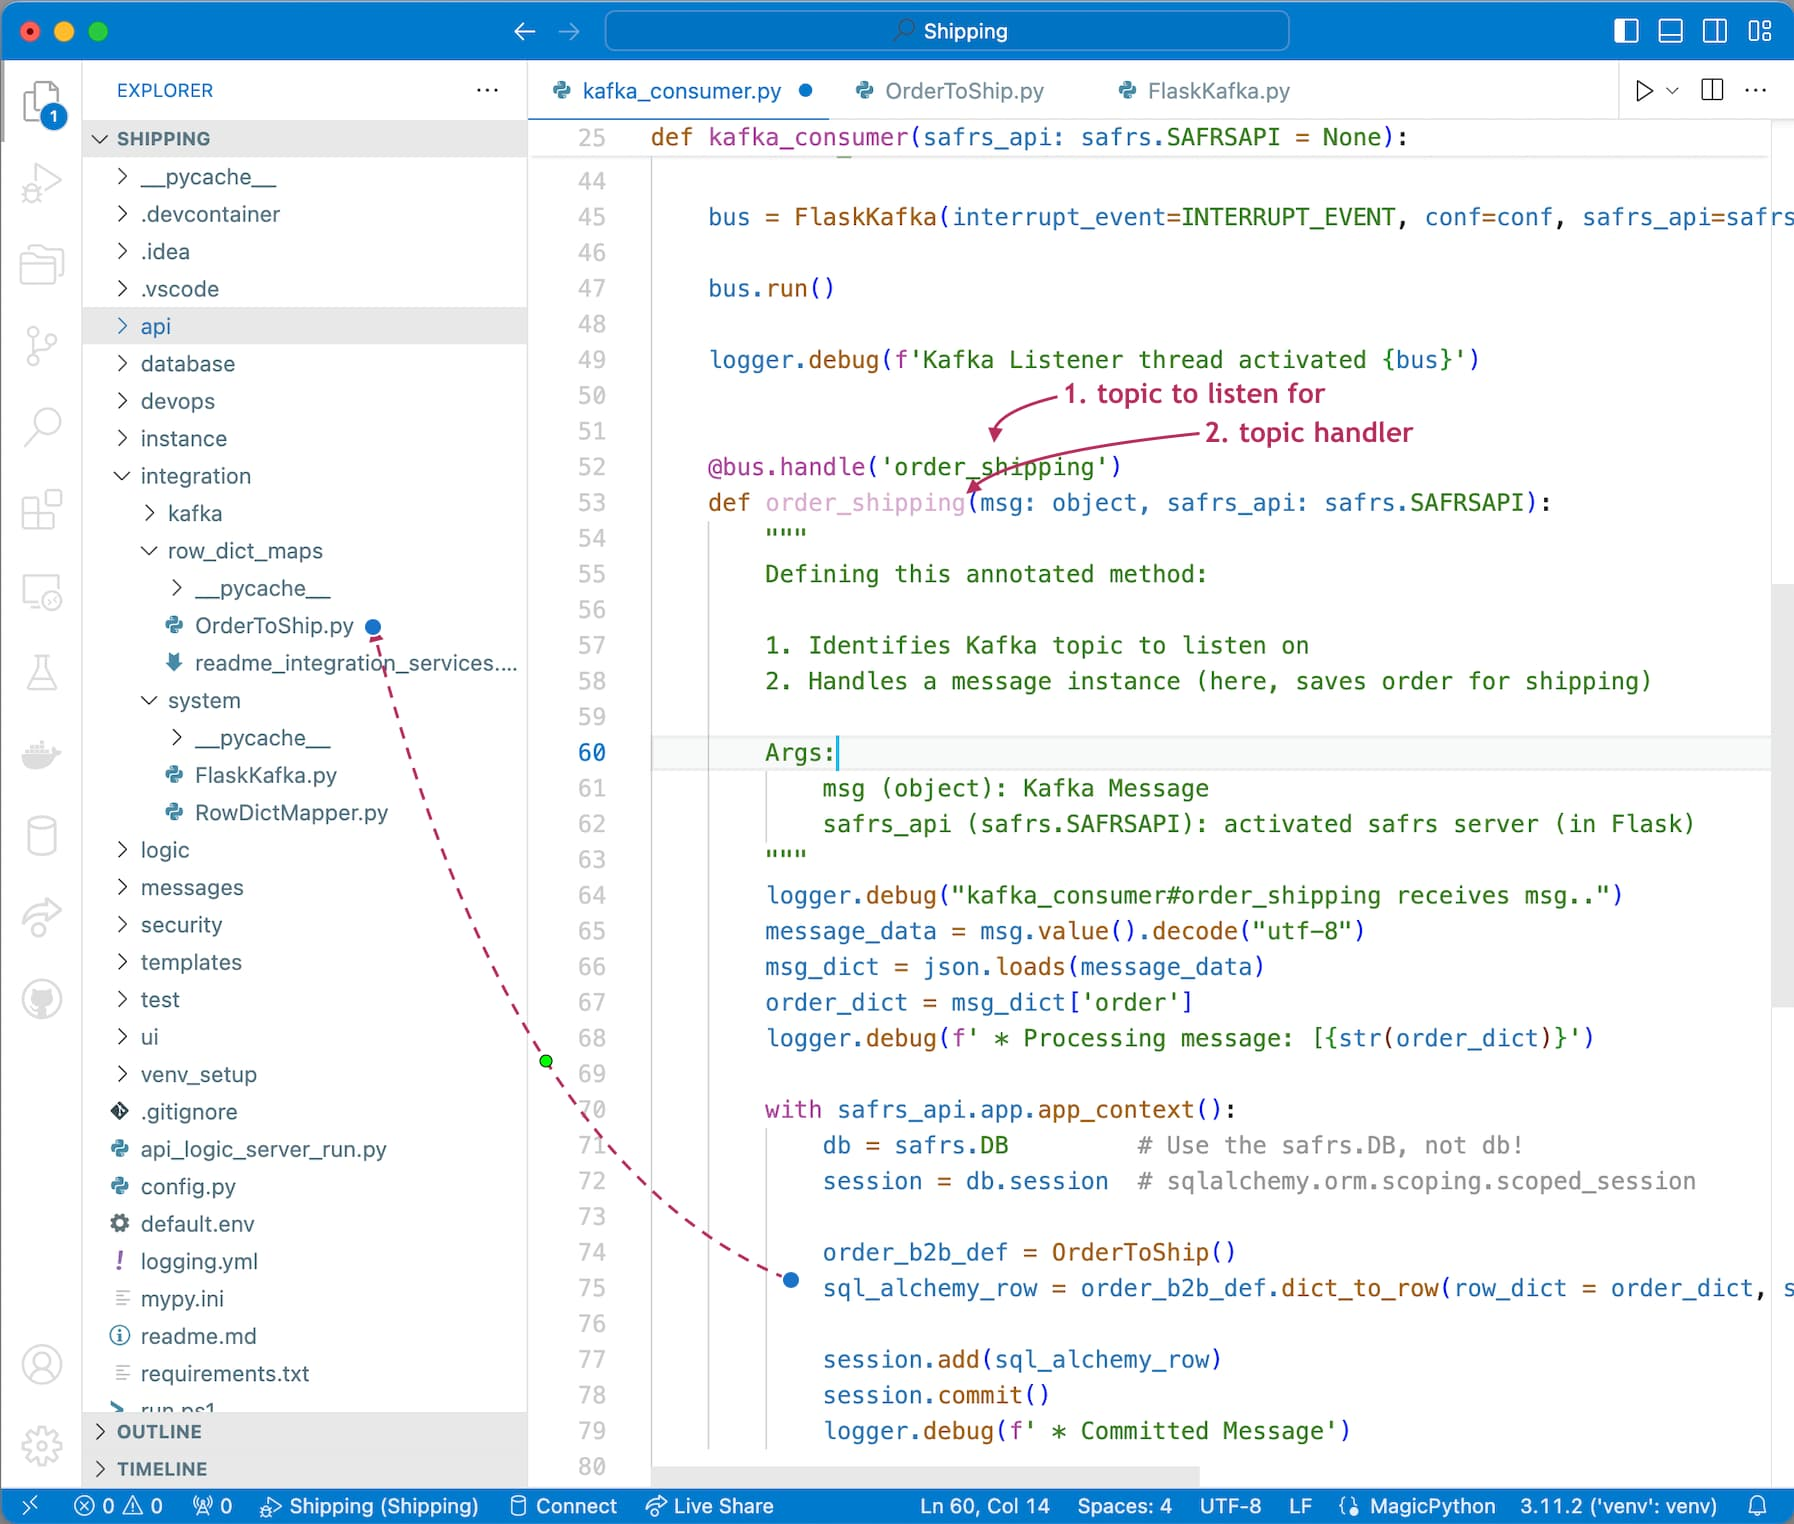
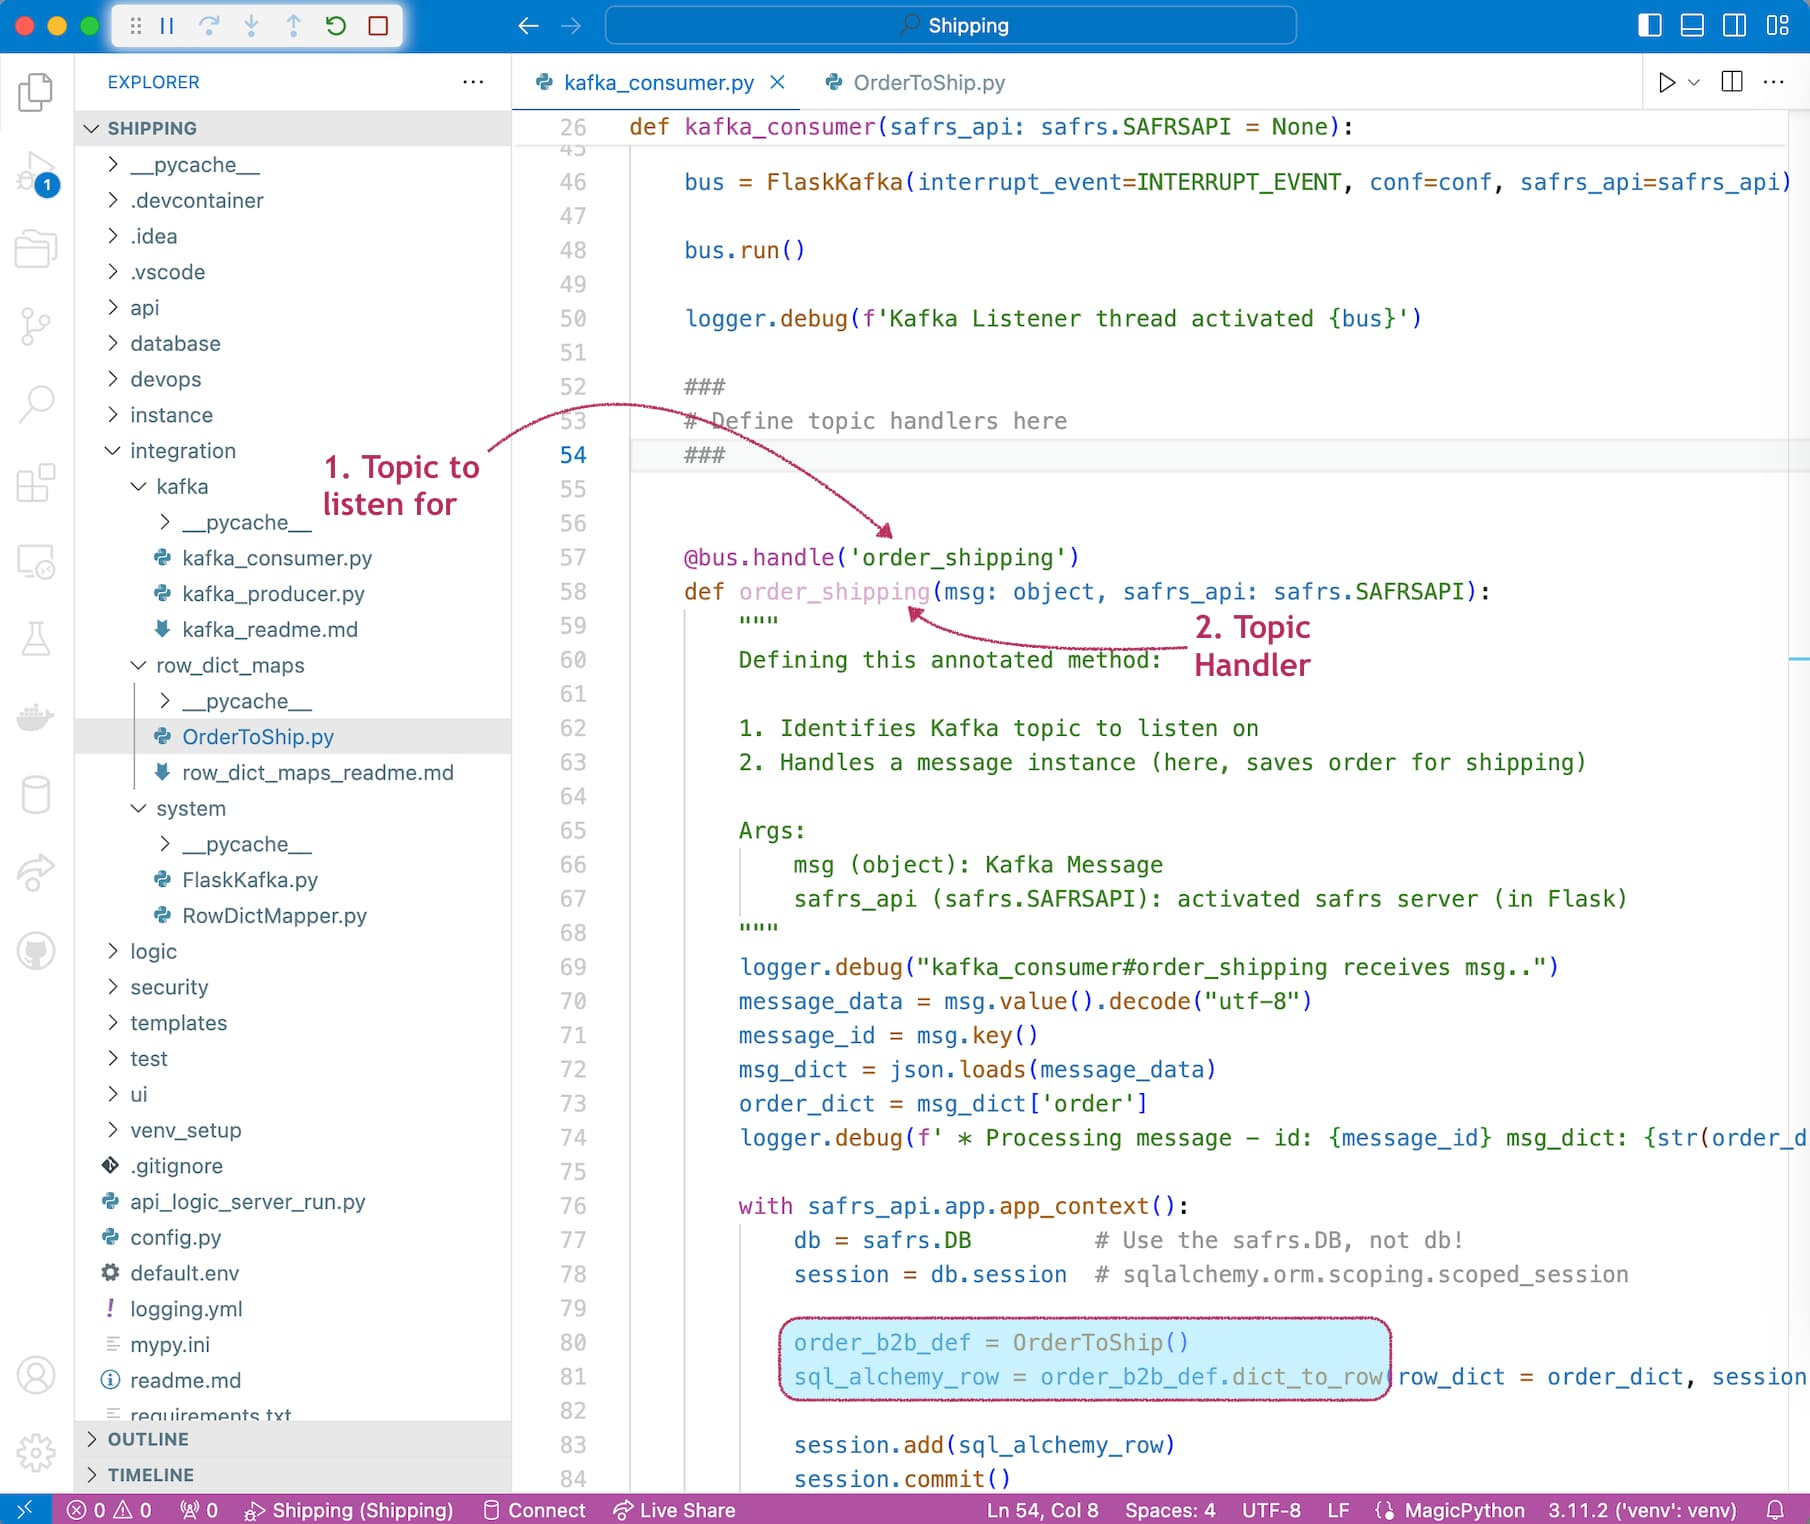
wip

diff --git a/docs/Sample-Integration.md b/docs/Sample-Integration.md
@@ -271,7 +271,10 @@ To see security in action:
 
 ## 3. Integrate: B2B and Shipping
 
-We now have a running system - an API, logic, security, and a UI.  To integrate with B2B partners and Shipping, we have 2 tasks, described below.
+We now have a running system - an API, logic, security, and a UI.  Now we must integrate with:
+
+* B2B partners -- we'll create a **B2B Custom Resource**
+* OrderShipping -- we add logic to **Send an OrderShipping Message**
 
 &nbsp;
 
@@ -303,9 +306,16 @@ So, our custom endpoint required about 7 lines of code, along with the API speci
 
 Successful orders need to be sent to Shipping, again in a predesignated format.
 
+We could certainly POST an API, but Messaging (here, Kafka) provides significant advantages:
+
+* **Async:** Our system will not be impacted if the Shipping system is down.  Kafka will save the message, and deliver it when Shipping is back up.
+* **Multi-cast:** We can send a message that multiple systems (e.g., Accounting) can consume.
+
+The content of the message is a JSON string, just like an API.
+
 Just as you can customize apis, you can complement rule-based logic using Python events:
 
-1. Declare the mapping -- see the `OrderShipping` class in the right pane.
+1. Declare the mapping -- see the `OrderShipping` class in the right pane.  This formats our Kafka message content in the format agreed upon with Shipping.
 
 2. Define a Python `after_flush` event, which invokes `send_order_to_shipping`.  This is called by the logic engine, which passes the SQLAlchemy `models.Order`` row.
 
@@ -316,6 +326,10 @@ Just as you can customize apis, you can complement rule-based logic using Python
 &nbsp;
 
 ## 4. Consuming Messages
+
+The Shipping system illustrates how to consume messages.  This system was [created from AI](Tutorial-AI.md), here customized to add message consumption.
+
+&nbsp;
 
 ### Create/Start Shipping
 
@@ -333,9 +347,27 @@ ApiLogicServer create --project_name=shipping --db_url=shipping
 
 ### Consuming Logic
 
-Note the logic in `integration/kafka/kafka_consumer.py`.
+To consume messages:
+
+**1. Enable Consumption**
+
+Shipping is pre-configured to enable message consumption with a setting in `config.py`:
+
+```python
+KAFKA_CONSUMER = '{"bootstrap.servers": "localhost:9092", "group.id": "als-default-group1", "auto.offset.reset":"smallest"}'
+```
+
+**2. Configure a mapping**
+
+As we did for our OrderB2B Custom Resource, we configure an `OrderToShip` mapping class to map the message onto our SQLAlchemy Order object.
+
+**3. Provide a Message Handler**
+
+We provide the `order_shipping` handler in `integration/kafka/kafka_consumer.py`.
 
 ![process in shipping](https://github.com/ApiLogicServer/Docs/blob/main/docs/images/integration/kafka-consumer.jpg?raw=true)
+
+The pre-supplied `FlaskKafka` takes care of the Kafka listening and thread management.
 
 &nbsp;
 
